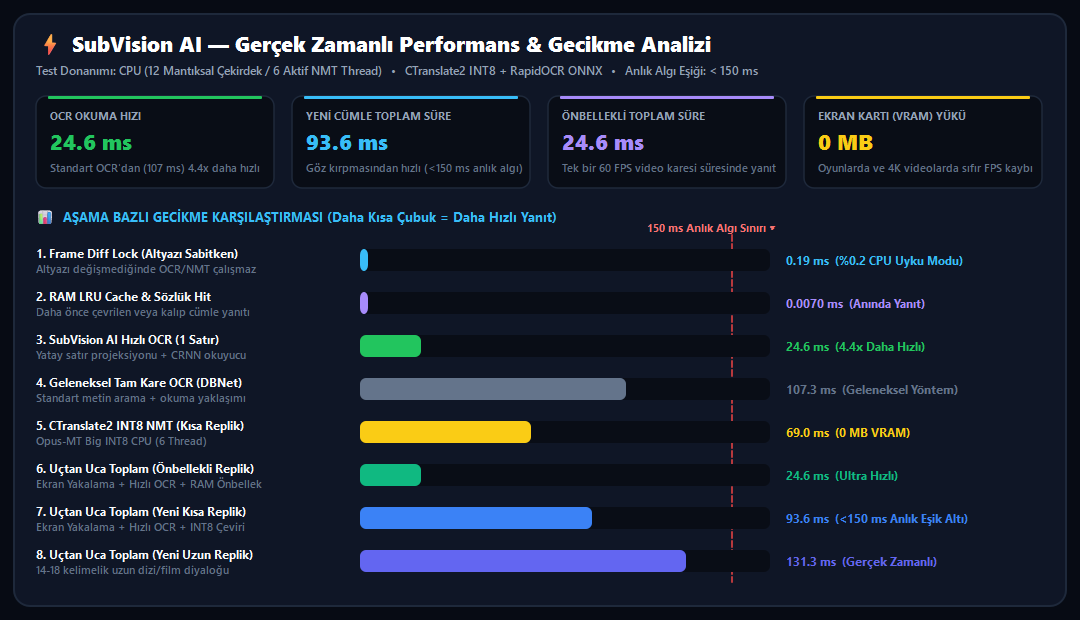
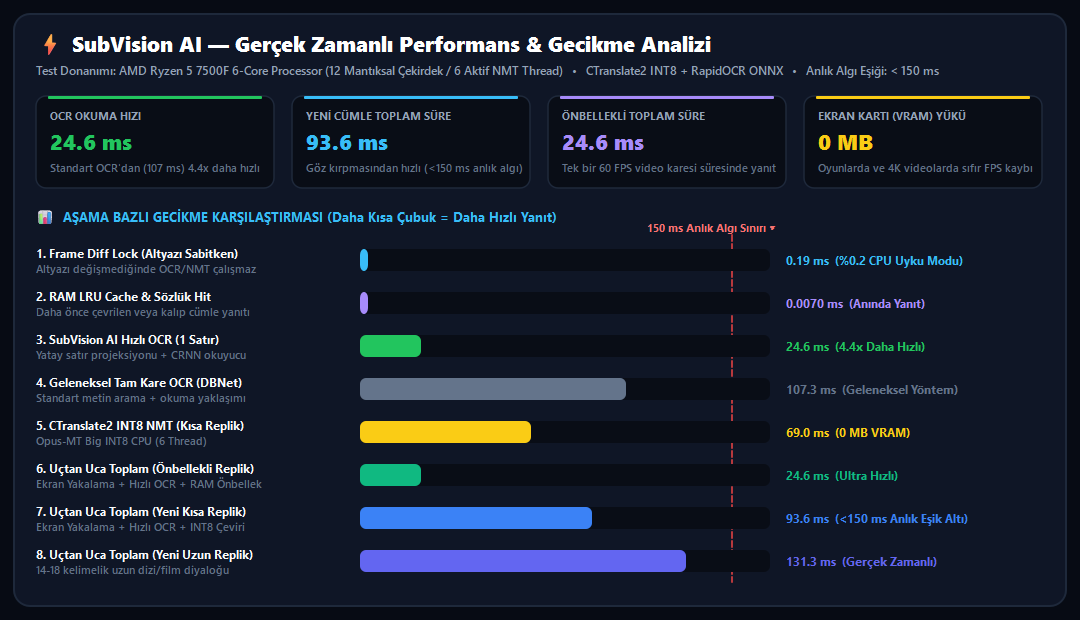
feat(website & docs): auto-resolve latest GitHub commit in worker and add 3-tab interactive app screenshots

Changed region(s): [[0.0917, 0.0919, 0.8861, 0.1226]]

diff --git a/website/index.html b/website/index.html
@@ -11,16 +11,16 @@
   <meta property="og:url" content="https://subvisionai.andacbasaran.com/" />
   <meta property="og:title" content="SubVision AI — Ekrandaki Her Altyazı. Anında Türkçe." />
   <meta property="og:description" content="Oyunlar ve videolar için sıfır FPS kaybıyla çalışan açık kaynak kodlu anlık Türkçe altyazı çevirici." />
-  <meta property="og:image" content="https://subvisionai.andacbasaran.com/assets/ui_preview.png" />
+  <meta property="og:image" content="https://subvisionai.andacbasaran.com/assets/ui_preview.png?v=1.3.2" />
 
   <meta name="twitter:card" content="summary_large_image" />
   <meta name="twitter:title" content="SubVision AI — Ekrandaki Her Altyazı. Anında Türkçe." />
   <meta name="twitter:description" content="Oyunlar ve videolar için sıfır FPS kaybıyla çalışan açık kaynak kodlu anlık Türkçe altyazı çevirici." />
-  <meta name="twitter:image" content="https://subvisionai.andacbasaran.com/assets/ui_preview.png" />
+  <meta name="twitter:image" content="https://subvisionai.andacbasaran.com/assets/ui_preview.png?v=1.3.2" />
 
   <link rel="canonical" href="https://subvisionai.andacbasaran.com/" />
-  <link rel="icon" type="image/png" href="/assets/app_icon.png" />
-  <link rel="shortcut icon" href="/favicon.ico" />
+  <link rel="icon" type="image/png" href="/assets/app_icon.png?v=1.3.2" />
+  <link rel="shortcut icon" href="/favicon.ico?v=1.3.2" />
   <link rel="preconnect" href="https://fonts.googleapis.com" />
   <link rel="preconnect" href="https://fonts.gstatic.com" crossorigin />
   <link href="https://fonts.googleapis.com/css2?family=Inter:wght@400;500;600;700;800&family=Plus+Jakarta+Sans:wght@700;800&display=swap" rel="stylesheet" />
@@ -454,24 +454,61 @@
     }
 
     /* SCENE 2: STUDIO WINDOW PREVIEW */
+    .preview-tabs {
+      display: inline-flex;
+      align-items: center;
+      gap: 4px;
+      padding: 4px;
+      border-radius: 999px;
+      background: rgba(15, 23, 42, 0.78);
+      border: 1px solid rgba(56, 189, 248, 0.22);
+      margin-bottom: 14px;
+      backdrop-filter: blur(12px);
+    }
+
+    .preview-tab-btn {
+      background: transparent;
+      border: none;
+      color: var(--muted);
+      font-family: inherit;
+      font-size: 0.78rem;
+      font-weight: 600;
+      padding: 6px 14px;
+      border-radius: 999px;
+      cursor: pointer;
+      white-space: nowrap;
+      transition: all 0.25s var(--ease-apple);
+    }
+
+    .preview-tab-btn:hover {
+      color: #fff;
+    }
+
+    .preview-tab-btn.active {
+      background: rgba(56, 189, 248, 0.18);
+      color: #fff;
+      box-shadow: 0 0 16px rgba(56, 189, 248, 0.22);
+    }
+
     .studio-frame {
       width: 100%;
-      max-width: 740px;
+      max-width: 720px;
       border-radius: 18px;
-      padding: 8px;
+      padding: 7px;
       background: linear-gradient(180deg, rgba(255, 255, 255, 0.12), rgba(255, 255, 255, 0.03));
       box-shadow: 0 35px 90px -15px rgba(0, 0, 0, 0.9), 0 0 60px -15px rgba(56, 189, 248, 0.25);
-      margin-bottom: 22px;
+      margin-bottom: 16px;
       transition: transform 0.4s var(--ease-apple);
     }
 
     .studio-frame img {
       width: 100%;
-      max-height: 44dvh;
+      max-height: 40dvh;
       object-fit: contain;
       border-radius: 12px;
       display: block;
-      background: #090c12;
+      background: #060a13;
+      transition: opacity 0.22s var(--ease-apple);
     }
 
     /* Apple-Style Bottom Floating Capsule Dock */
@@ -636,14 +673,24 @@
       }
 
       .studio-frame {
-        padding: 6px;
+        padding: 5px;
         border-radius: 14px;
-        margin-bottom: 18px;
+        margin-bottom: 12px;
       }
 
       .studio-frame img {
-        max-height: 36dvh;
+        max-height: 31dvh;
         border-radius: 9px;
+      }
+
+      .preview-tabs {
+        margin-bottom: 10px;
+        padding: 3px;
+      }
+
+      .preview-tab-btn {
+        font-size: 0.72rem;
+        padding: 5px 10px;
       }
 
       .bottom-dock {
@@ -769,13 +816,19 @@
 
     <!-- SCENE 2: STÜDYO ARAYÜZÜ & İNDİR -->
     <section class="scene" id="scene-2">
-      <div class="eyebrow">SubVision AI Studio</div>
-      <h2 class="headline" style="font-size: clamp(1.55rem, 3.6vw, 2.8rem); margin-bottom: 18px;">
+      <div class="eyebrow">SubVision AI Studio v1.3</div>
+      <h2 class="headline" style="font-size: clamp(1.45rem, 3.3vw, 2.5rem); margin-bottom: 12px;">
         Sade. Güçlü. <span>Tamamen sizin kontrolünüzde.</span>
       </h2>
 
+      <div class="preview-tabs" role="tablist" aria-label="Arayüz Sekmeleri">
+        <button type="button" class="preview-tab-btn active" onclick="switchPreviewTab(0)">1. Ana Ekran</button>
+        <button type="button" class="preview-tab-btn" onclick="switchPreviewTab(1)">2. Diyalog Geçmişi</button>
+        <button type="button" class="preview-tab-btn" onclick="switchPreviewTab(2)">3. Ayarlar &amp; Hız Ölçümü</button>
+      </div>
+
       <div class="studio-frame">
-        <img src="/assets/ui_preview.png" alt="SubVision AI Uygulama Arayüzü" />
+        <img id="studio-preview-img" src="/assets/ui_preview.png?v=1.3.2" alt="SubVision AI Uygulama Arayüzü" />
       </div>
 
       <a href="/downloads/SubVisionAI.exe" class="btn-download" download="SubVisionAI.exe">
@@ -783,7 +836,7 @@
         <span>Hemen İndir (SubVisionAI.exe)</span>
       </a>
       <div class="caption-small">
-        v1.3 · Dijital İmzalı Hızlı Kurulum · <a href="https://github.com/Andacbasaran/subvision-ai-subtitle-translator/releases/latest" target="_blank" rel="noopener" style="color:var(--cyan); text-decoration:underline; text-underline-offset:3px;">Tüm Paketler (GitHub Releases)</a>
+        GitHub üzerindeki en güncel sürümü doğrudan indirir · <a href="https://github.com/Andacbasaran/subvision-ai-subtitle-translator/releases/latest" target="_blank" rel="noopener" style="color:var(--cyan); text-decoration:underline; text-underline-offset:3px;">Tüm Paketler (GitHub Releases)</a>
       </div>
     </section>
 
@@ -867,6 +920,24 @@
         orb1.style.transform = `translate(${x}px, ${y}px)`;
       }
     });
+
+    const PREVIEW_IMAGES = [
+      "/assets/ui_preview.png?v=1.3.2",
+      "/assets/ui_preview_history.png?v=1.3.2",
+      "/assets/ui_preview_settings.png?v=1.3.2"
+    ];
+
+    function switchPreviewTab(tabIdx) {
+      const img = document.getElementById('studio-preview-img');
+      if (!img || !PREVIEW_IMAGES[tabIdx]) return;
+      img.style.opacity = '0.35';
+      setTimeout(() => {
+        img.src = PREVIEW_IMAGES[tabIdx];
+        img.style.opacity = '1';
+      }, 110);
+      const btns = document.querySelectorAll('.preview-tab-btn');
+      btns.forEach((b, i) => b.classList.toggle('active', i === tabIdx));
+    }
 
     const SAMPLES = [
       {

diff --git a/website/worker.js b/website/worker.js
@@ -1,44 +1,101 @@
 import INDEX_HTML from "./index.html";
 
-const GITHUB_RAW_BASE = "https://raw.githubusercontent.com/Andacbasaran/subvision-ai-subtitle-translator/0e3045e1e18d3ce226f14df50619c4b5fea80f5d";
+const GITHUB_REPO = "Andacbasaran/subvision-ai-subtitle-translator";
+const GITHUB_BRANCH = "main";
+
+let cachedCommitSha = null;
+let cachedAtMs = 0;
+const SHA_CACHE_TTL_MS = 60 * 1000;
+
+async function getLatestGithubRawBase() {
+  const now = Date.now();
+  if (cachedCommitSha && (now - cachedAtMs) < SHA_CACHE_TTL_MS) {
+    return `https://raw.githubusercontent.com/${GITHUB_REPO}/${cachedCommitSha}`;
+  }
+  try {
+    const resp = await fetch(
+      `https://api.github.com/repos/${GITHUB_REPO}/commits/${GITHUB_BRANCH}`,
+      {
+        headers: {
+          "Accept": "application/vnd.github.VERSION.sha",
+          "User-Agent": "SubVisionAI-Cloudflare-Worker"
+        },
+        cf: {
+          cacheEverything: true,
+          cacheTtl: 60
+        }
+      }
+    );
+    if (resp.ok) {
+      const sha = (await resp.text()).trim();
+      if (/^[0-9a-f]{40}$/i.test(sha)) {
+        cachedCommitSha = sha;
+        cachedAtMs = now;
+        return `https://raw.githubusercontent.com/${GITHUB_REPO}/${sha}`;
+      }
+    }
+  } catch (_) {
+    // Fallback to branch name if GitHub API is unreachable
+  }
+  return `https://raw.githubusercontent.com/${GITHUB_REPO}/${GITHUB_BRANCH}`;
+}
 
 const STATIC_ROUTES = {
   "/downloads/SubVisionAI.exe": {
-    upstream: `${GITHUB_RAW_BASE}/SubVisionAI.exe`,
+    repoPath: "/SubVisionAI.exe",
     contentType: "application/vnd.microsoft.portable-executable",
     disposition: 'attachment; filename="SubVisionAI.exe"',
-    cacheControl: "public, max-age=3600"
+    cacheControl: "no-store, no-cache, must-revalidate, max-age=0",
+    edgeCacheTtl: 60
   },
   "/SubVisionAI.exe": {
-    upstream: `${GITHUB_RAW_BASE}/SubVisionAI.exe`,
+    repoPath: "/SubVisionAI.exe",
     contentType: "application/vnd.microsoft.portable-executable",
     disposition: 'attachment; filename="SubVisionAI.exe"',
-    cacheControl: "public, max-age=3600"
+    cacheControl: "no-store, no-cache, must-revalidate, max-age=0",
+    edgeCacheTtl: 60
   },
   "/assets/ui_preview.png": {
-    upstream: `${GITHUB_RAW_BASE}/assets/ui_preview.png`,
+    repoPath: "/assets/ui_preview.png",
     contentType: "image/png",
-    cacheControl: "public, max-age=86400"
+    cacheControl: "public, max-age=300, must-revalidate",
+    edgeCacheTtl: 300
+  },
+  "/assets/ui_preview_history.png": {
+    repoPath: "/assets/ui_preview_history.png",
+    contentType: "image/png",
+    cacheControl: "public, max-age=300, must-revalidate",
+    edgeCacheTtl: 300
+  },
+  "/assets/ui_preview_settings.png": {
+    repoPath: "/assets/ui_preview_settings.png",
+    contentType: "image/png",
+    cacheControl: "public, max-age=300, must-revalidate",
+    edgeCacheTtl: 300
   },
   "/assets/benchmark_chart.png": {
-    upstream: `${GITHUB_RAW_BASE}/assets/benchmark_chart.png`,
+    repoPath: "/assets/benchmark_chart.png",
     contentType: "image/png",
-    cacheControl: "public, max-age=86400"
+    cacheControl: "public, max-age=300, must-revalidate",
+    edgeCacheTtl: 300
   },
   "/assets/app_icon.png": {
-    upstream: `${GITHUB_RAW_BASE}/assets/app_icon.png`,
+    repoPath: "/assets/app_icon.png",
     contentType: "image/png",
-    cacheControl: "public, max-age=86400"
+    cacheControl: "public, max-age=3600",
+    edgeCacheTtl: 3600
   },
   "/assets/app_icon.ico": {
-    upstream: `${GITHUB_RAW_BASE}/assets/app_icon.ico`,
+    repoPath: "/assets/app_icon.ico",
     contentType: "image/x-icon",
-    cacheControl: "public, max-age=86400"
+    cacheControl: "public, max-age=3600",
+    edgeCacheTtl: 3600
   },
   "/favicon.ico": {
-    upstream: `${GITHUB_RAW_BASE}/assets/app_icon.ico`,
+    repoPath: "/assets/app_icon.ico",
     contentType: "image/x-icon",
-    cacheControl: "public, max-age=86400"
+    cacheControl: "public, max-age=3600",
+    edgeCacheTtl: 3600
   }
 };
 
@@ -65,7 +122,7 @@ export default {
       if (pathname === "/" || pathname === "/index.html") {
         const headers = withSecurityHeaders({
           "Content-Type": "text/html; charset=utf-8",
-          "Cache-Control": "public, max-age=120"
+          "Cache-Control": "public, max-age=60, must-revalidate"
         });
         return new Response(INDEX_HTML, { status: 200, headers });
       }
@@ -80,10 +137,12 @@ export default {
 
       const route = STATIC_ROUTES[pathname];
       if (route) {
-        const upstreamResp = await fetch(route.upstream, {
+        const rawBase = await getLatestGithubRawBase();
+        const upstreamUrl = `${rawBase}${route.repoPath}`;
+        const upstreamResp = await fetch(upstreamUrl, {
           cf: {
             cacheEverything: true,
-            cacheTtl: 86400
+            cacheTtl: route.edgeCacheTtl || 300
           }
         });
 
@@ -91,6 +150,7 @@ export default {
           console.error(JSON.stringify({
             message: "upstream_asset_fetch_failed",
             path: pathname,
+            upstreamUrl,
             status: upstreamResp.status
           }));
           return Response.json(

diff --git a/benchmark.py b/benchmark.py
@@ -94,6 +94,7 @@ def generate_visual_assets(bm: Dict) -> None:
     # 2. Studio Arayüz Önizleme Görseli (assets/ui_preview.png)
     win = app_main.MainWindow()
     win.resize(880, 665)
+    win.combo_ocr_mode.setCurrentIndex(0)
     win.chk_bilingual.setChecked(True)
     win._select_color_swatch("#FACC15")
     win.translator.total_requests = 24
@@ -122,10 +123,23 @@ def generate_visual_assets(bm: Dict) -> None:
     app.processEvents()
     win._on_model_ready()
     win.lbl_scene_tag.setText("Canlı Yakalama · 30 FPS")
+    win._switch_tab(0)
     win.repaint()
     app.processEvents()
     ui_pix = win.grab()
     ui_pix.save(os.path.join(assets_dir, "ui_preview.png"), "PNG")
+
+    win._switch_tab(1)
+    win.repaint()
+    app.processEvents()
+    hist_pix = win.grab()
+    hist_pix.save(os.path.join(assets_dir, "ui_preview_history.png"), "PNG")
+
+    win._switch_tab(2)
+    win.repaint()
+    app.processEvents()
+    set_pix = win.grab()
+    set_pix.save(os.path.join(assets_dir, "ui_preview_settings.png"), "PNG")
     win.close()
 
     # 3. Yeni Nesil Anlaşılır Benchmark İnfografiği (assets/benchmark_chart.png)

diff --git a/README.md b/README.md
@@ -68,8 +68,20 @@
 ## 🖥 Uygulama Arayüzü (SubVision AI Studio v1.3)
 
 <div align="center">
-  <img src="assets/ui_preview.png" alt="SubVision AI Studio v1.3 UI Preview" width="880" />
+  <img src="assets/ui_preview.png" alt="SubVision AI Studio v1.3 — Ana Ekran" width="880" />
 </div>
+
+<details>
+<summary><b>📸 Diğer Sekmelerin Ekran Görüntülerini Gör (2. Diyalog Geçmişi & 3. Ayarlar / Canlı Hız Ölçümü)</b></summary>
+<br/>
+<div align="center">
+  <p><b>2. Sekme — Çevrilen Diyalog Geçmişi (Tıkla & Kopyala)</b></p>
+  <img src="assets/ui_preview_history.png" alt="SubVision AI Studio v1.3 — Diyalog Geçmişi" width="840" />
+  <br/><br/>
+  <p><b>3. Sekme — Algılama, Performans Profili, Canlı Hız Ölçümü & Bileşen Yöneticisi</b></p>
+  <img src="assets/ui_preview_settings.png" alt="SubVision AI Studio v1.3 — Ayarlar ve Hız Ölçümü" width="840" />
+</div>
+</details>
 
 <br/>
 
